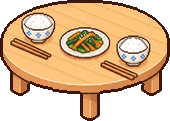
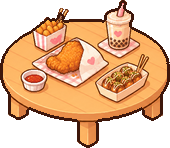
Room items: night-market snacks for "ate something tasty"
The low table with rice bowls is replaced by fried chicken, bubble tea and
takoyaki from the night market. The old art is kept as meal_bowls.png.

Claude-Session: https://claude.ai/code/session_01MT4YkmG2KGTMjF5XqnwBbs

diff --git a/public/joys-config.js b/public/joys-config.js
@@ -8,7 +8,7 @@ export const IMPRINT_DAYS = 10;
 export const IMPRINTS = {
   cat: { name: '小貓抱枕', where: '床上', x: 520, y: 520, w: 130, h: 81, z: 2 },
   coffee: { name: '拿鐵', where: '書桌上', x: 705, y: 332, w: 54, h: 47, z: 1 },
-  meal: { name: '小矮桌和碗筷', where: '電視前的地毯上', x: 975, y: 705, w: 170, h: 121, r: .07, z: 3 },
+  meal: { name: '夜市小吃', where: '電視前的地毯上', x: 975, y: 705, w: 170, h: 148, r: .07, z: 3 },
   hearts: { name: '兩雙室內拖鞋', where: '地毯旁邊', x: 832, y: 820, w: 112, h: 56, r: .03, z: 3 },
   gift: { name: '禮物盒', where: '書櫃旁邊', x: 245, y: 705, w: 105, h: 141, r: .04, z: 4 },
   bear: { name: '熊熊玩偶', where: '床邊', x: 330, y: 720, w: 95, h: 126, r: .035, z: 5 },

diff --git a/public/sw.js b/public/sw.js
@@ -1,5 +1,5 @@
 // 版本號：主.次.修（見 CLAUDE.md「版本號」）。改了任何檔案就把最後一位 +1，舊快取才會被清掉
-const VERSION = '0.0.104';
+const VERSION = '0.0.105';
 const CACHE = `lifelog-${VERSION}`;
 const ASSETS = [
   './',

diff --git a/CLAUDE.md b/CLAUDE.md
@@ -166,9 +166,9 @@
   - **多選一的擺放位置**（使用者定案，取代原本的「新家具直接疊上去」）：`joys-config.js` 的 `SLOT_OF` 把 32 個圖示分到 21 個位置（`SLOTS` 是位置名稱），同一個位置一次只放一件。拿到新家具時位置已經有東西，視窗問「換上（原本的收起來）／先收著」；收藏冊的按鈕是「放到房間／換上／收起來」。`shownImprints` 和伺服器 `sharedView` 都是新放的在前，`onePerSlot` 每個位置只留第一件（兩台手機各放一件時，留最後放的）。多選一的位置：書桌左邊 coffee／cake、床上 cat／game、書櫃旁地板 gift／workout、地毯中間 meal／cook／home、電視櫃上（電視右邊）sun／movie／sing／call、門邊地板 umbrella／shop／clean、門上掛鉤 bath／bike。
   - 擺放規劃（使用者定案）：**32 件家具都有圖了**，完整的 21 個位置見 `SLOT_OF`、座標見 `IMPRINTS`。**大小以熊熊為現實比例參考**（使用者定案：瑜珈墊比熊熊高、書和熊熊差不多高）。
     - 書桌左邊 coffee 拿鐵（只有杯子，和蛋糕一樣大）／cake；書桌上的紙條位置不變。角落層架長邊：camera 拍立得（只有相機；全家福相框使用者決定不用了，舊圖 `home_frame.png`）；角落層架短邊：music 旋轉木馬音樂盒（使用者把唱片機換掉，舊圖 `music_turntable.png`）。窗台 plant、窗簾桿 sparkle 串燈、窗戶旁的牆 sunset 明信片（兩個 `SHEAR` -0.49：負的是往右上升）。
-    - 床上 cat／game；書櫃頂 sneaker 地球儀、paw；書櫃旁 gift／workout；小熊旁 book；地毯中間三選一，同一張小矮桌：meal 碗筷（使用者要重畫「吃到好吃的」）／cook 自己做的早餐／home 一家人的火鍋（舊的 cook 火鍋圖 `cook_hotpot.png`）；地毯左前方 hearts 兩雙室內拖鞋（放在地毯外面，不疊到地毯；取代愛心氣球，舊圖 `hearts_balloons.png`）；前方地板 icecream 懶骨頭。
+    - 床上 cat／game；書櫃頂 sneaker 地球儀、paw；書櫃旁 gift／workout；小熊旁 book；地毯中間三選一，同一張小矮桌：meal 夜市小吃（雞排、珍奶、章魚燒；舊的碗筷 `meal_bowls.png`）／cook 自己做的早餐／home 一家人的火鍋（舊的 cook 火鍋圖 `cook_hotpot.png`）；地毯左前方 hearts 兩雙室內拖鞋（放在地毯外面，不疊到地毯；取代愛心氣球，舊圖 `hearts_balloons.png`）；前方地板 icecream 懶骨頭。
     - 電視櫃最左格目前空著；電視櫃上（電視右邊）call／sun／movie／sing（站在桌面中間；電話用 `imprint_items.py` 的 `ROTATE` 轉 11 度，和櫃子平行）；門邊地板 umbrella／shop（只有一個袋子，舊的兩袋 `shop_two_bags.png`）／clean；門前 letter；門上掛鉤 bath／bike（GPT 直接畫成斜掛在門上的角度，**不要再用 `SHEAR` 自己斜**，使用者定案；舊的正面圖 `bath_front.png`、`bike_front.png`）。
-    - 舊模型圖留著備用：`camera_tripod.png`、`cloud_beanbag.png`、`coffee_pot.png`、`hearts_balloons.png`、`shoes.png`、`music_turntable.png`、`shop_two_bags.png`、`home_frame.png`、`cook_hotpot.png`、`bath_front.png`、`bike_front.png`。
+    - 舊模型圖留著備用：`camera_tripod.png`、`cloud_beanbag.png`、`coffee_pot.png`、`hearts_balloons.png`、`shoes.png`、`music_turntable.png`、`shop_two_bags.png`、`home_frame.png`、`cook_hotpot.png`、`meal_bowls.png`、`bath_front.png`、`bike_front.png`。
   - 收藏冊在「累積幸福 → 全部」最下面，32 格（`JOY_ICONS` 全部）。
 - **使用者在小幸福選單（artifact）選了 32 個**：原本 24 個，加上 game 玩了喜歡的遊戲、cook 自己做了一頓飯、shop 買到喜歡的東西、workout 去運動了、movie 看了好看的電影、clean 把房間整理乾淨、call 和好久不見的人聊天、sing 大聲唱了歌。這 8 個已加進 `JOY_ICONS`（emoji）和 `ASK`，但**還沒有像素圖示**：不在 `JOY_PIX`，所以不能選來當小幸福或紙條貼圖（`PICKABLE_ICONS`），收藏冊顯示「即將推出」；圖做好放進 `public/joys/`、加進 `JOY_PIX` 和 `sw.js`，再加進 `SUGGESTIONS`。原本只有圖示的 6 個補了名稱，加進建議：被抱抱了 bear、照顧了植物 plant、完成了一件事 sparkle、雨天也很好 umbrella、吃到冰淇淋 icecream、騎車出去晃晃 bike。
 - 之後：Phase 2 幸福星罐、Phase 4 年度回顧卡、日記時間軸上的小印章；新房間草稿在 `art/source/room2/room_*.webp`（之後做換房間時用）。
